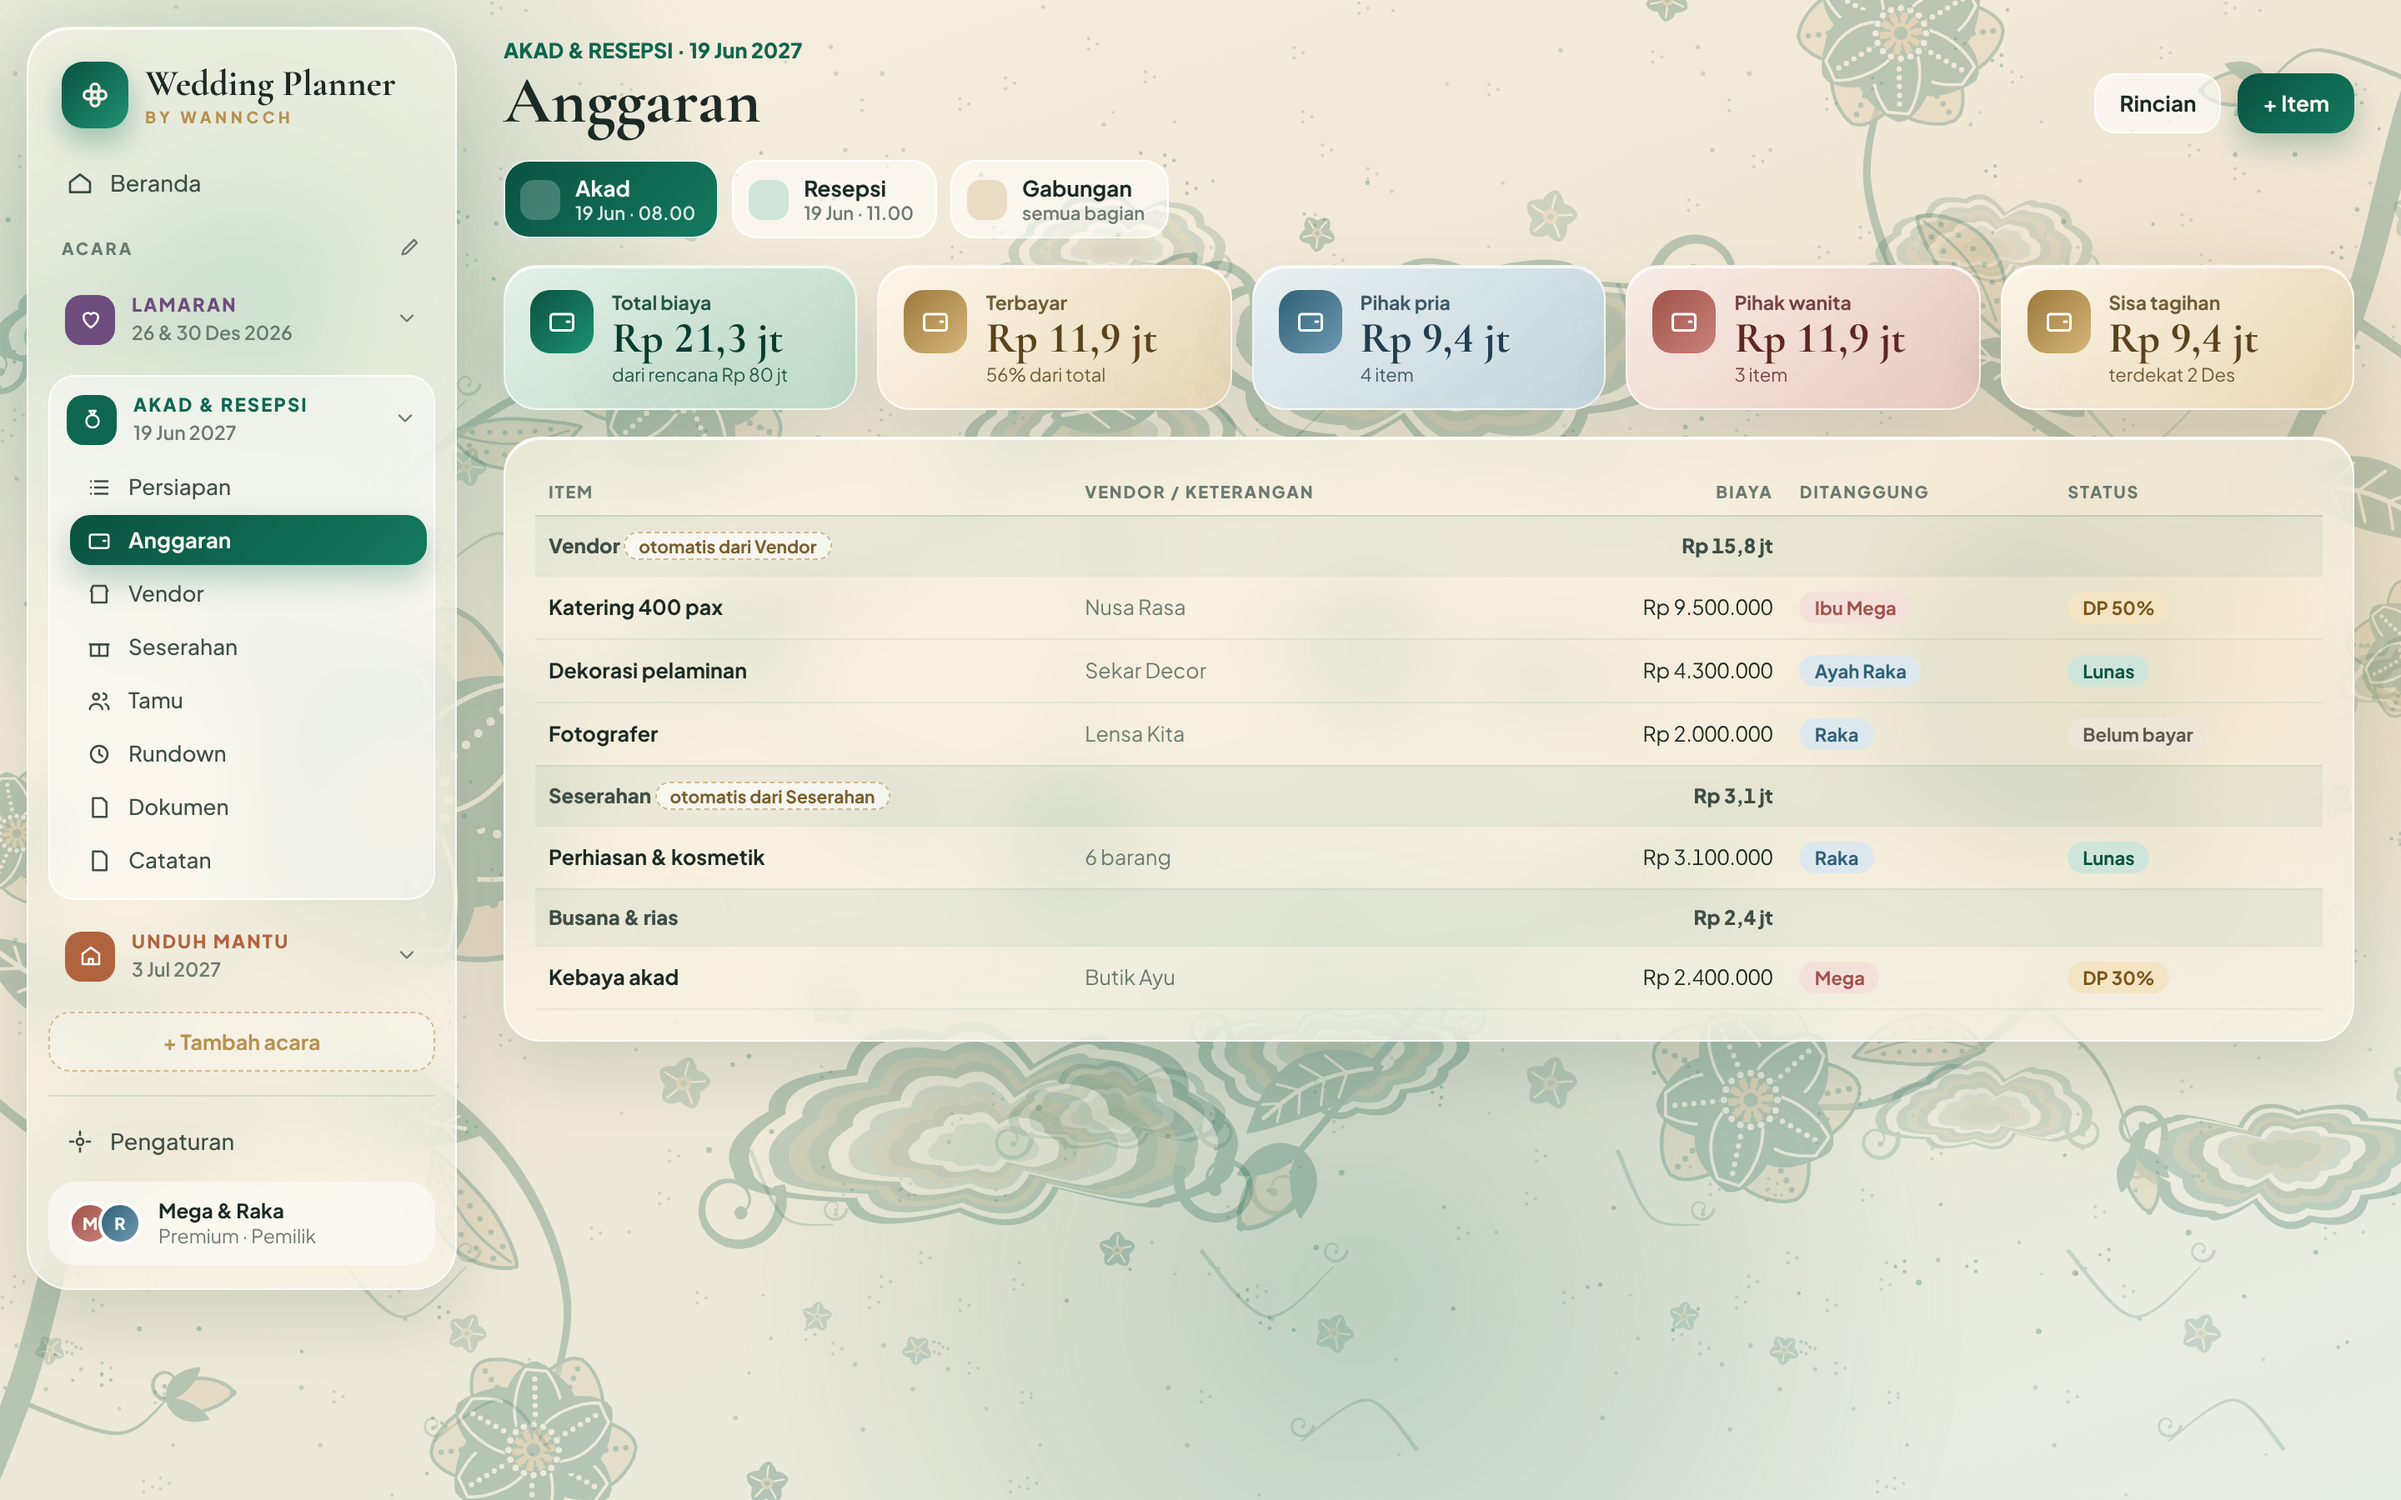
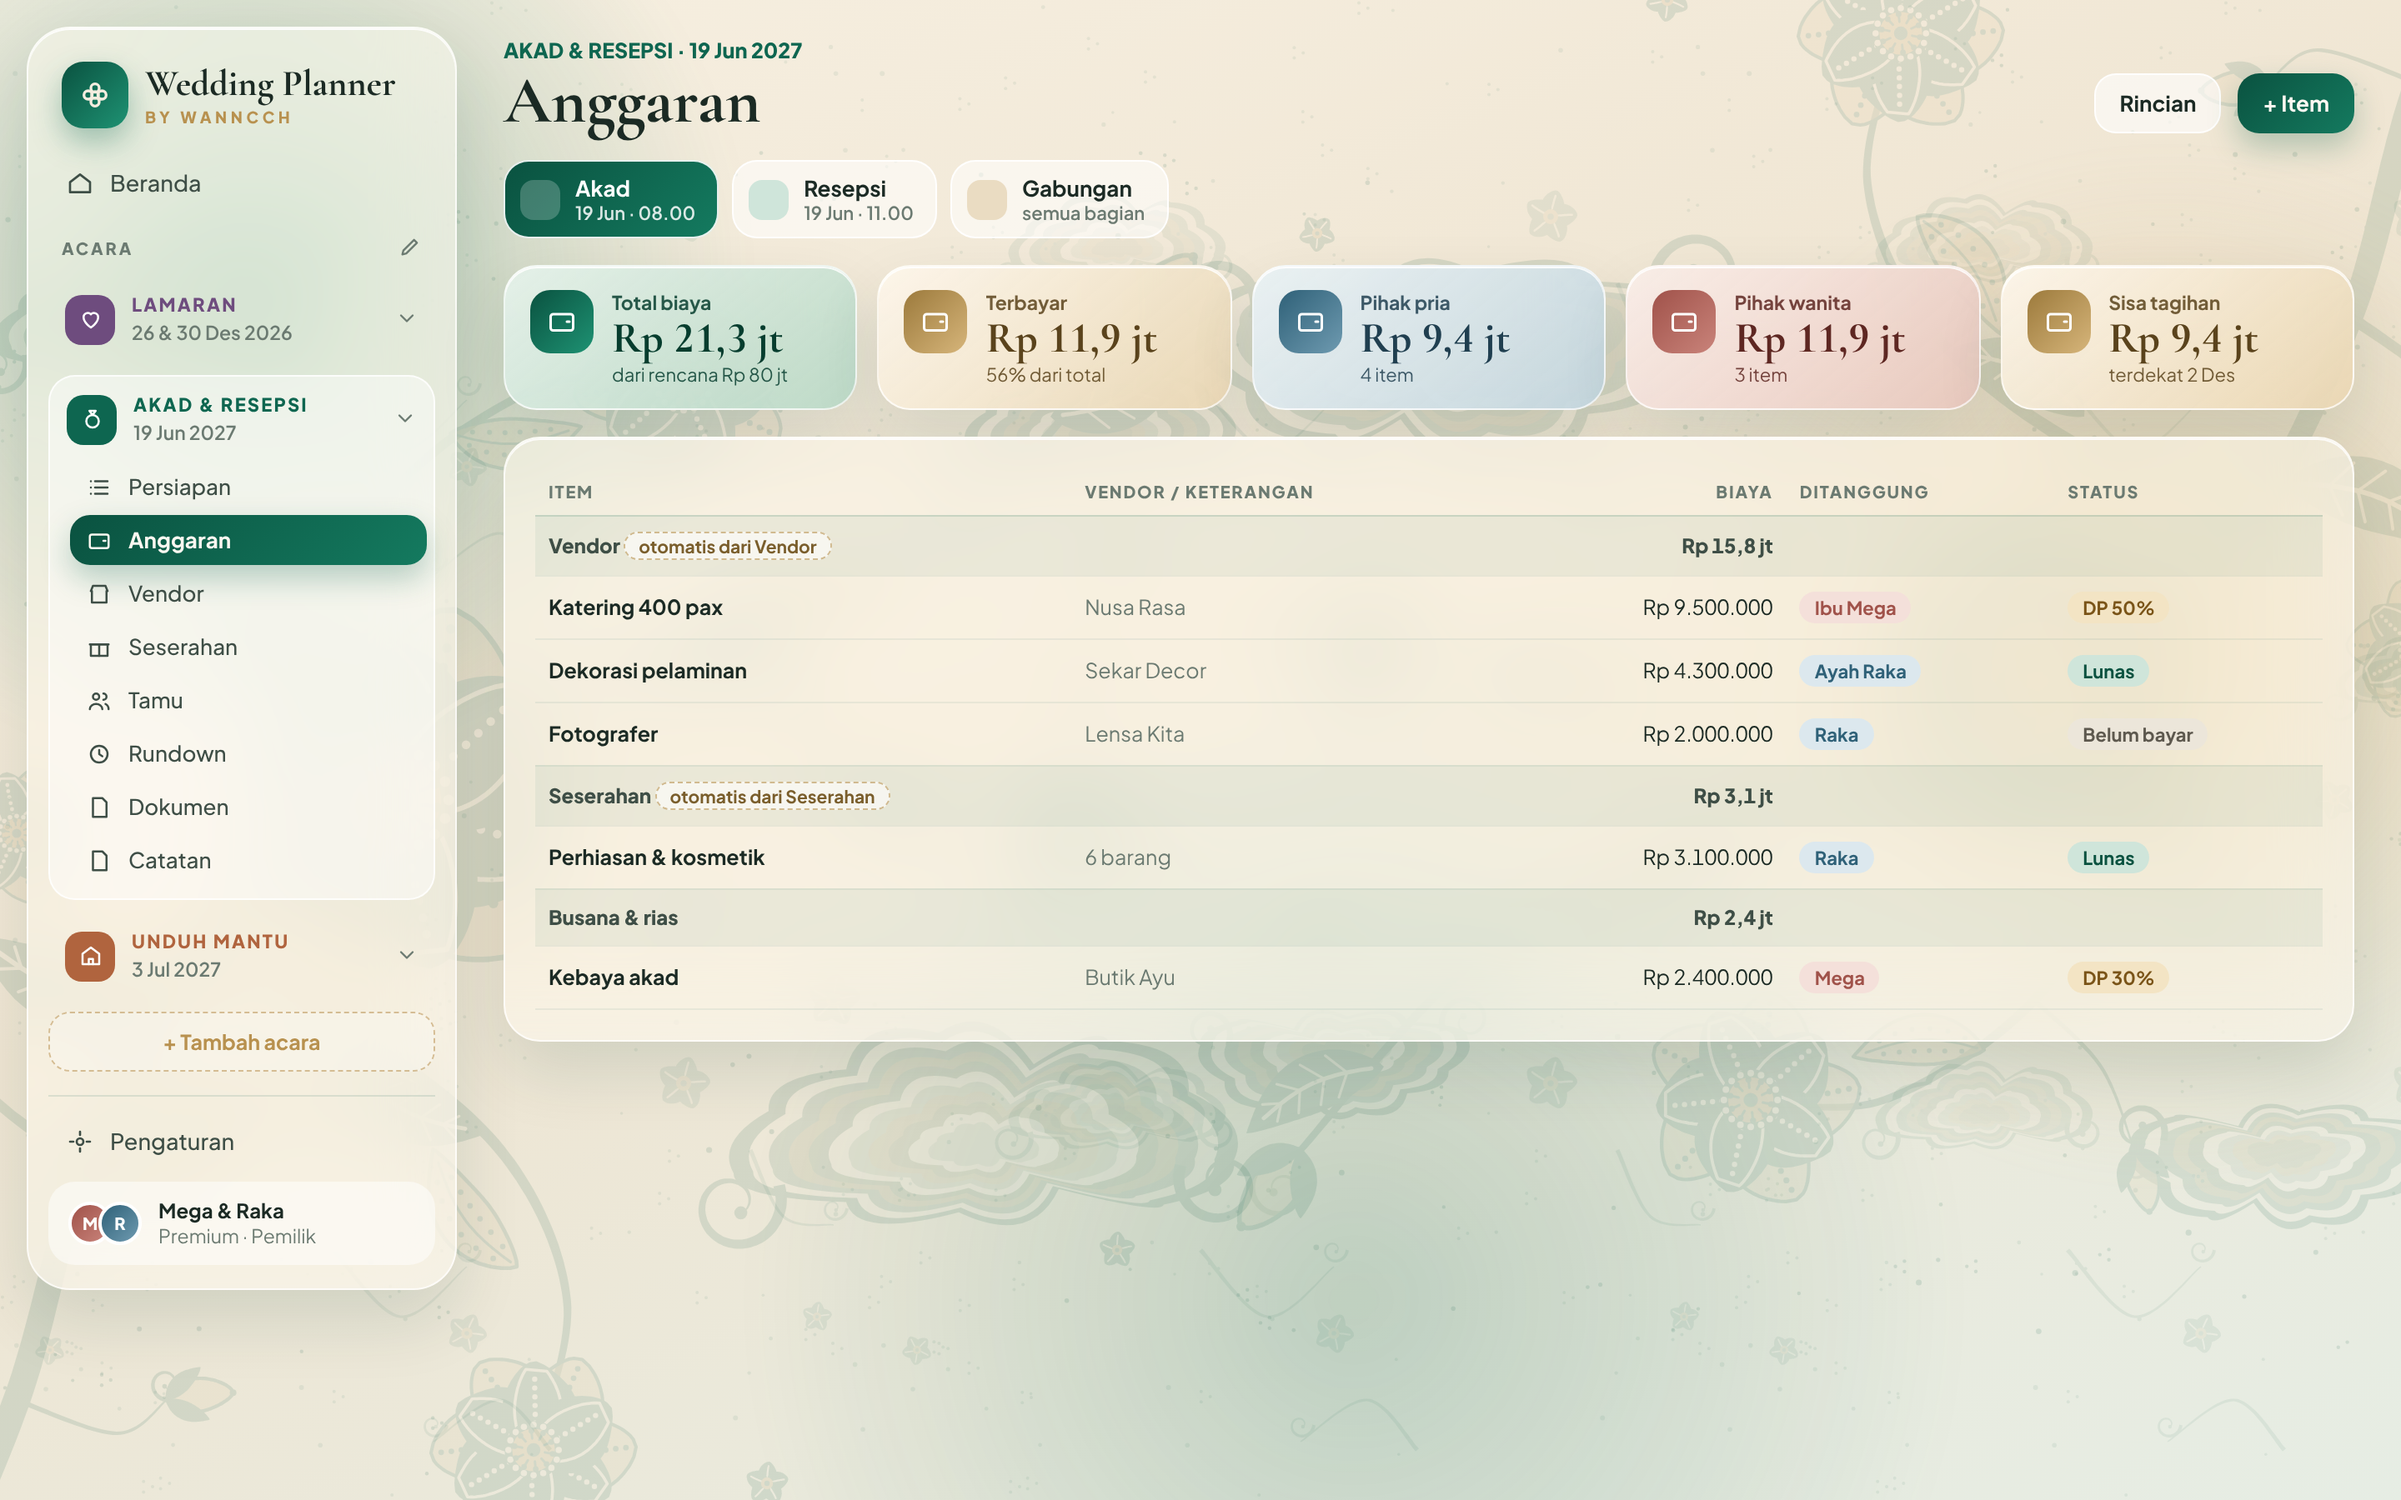
Mockup v5 Emerald: motif batik lebih samar
Claude-Session: https://claude.ai/code/session_01FXbHuBUEcwiKtJ8siQhxjS

diff --git a/design-mockup/v5-emerald/emerald.css b/design-mockup/v5-emerald/emerald.css
@@ -14,10 +14,10 @@ body{margin:0;font-family:'Plus Jakarta Sans',system-ui,sans-serif;color:var(--i
 .app{position:relative;overflow:hidden;display:flex;gap:0;min-height:100%;
   background:linear-gradient(160deg,#F7F0E2 0%,#EFE5D2 45%,#E6EDE4 100%)}
 /* lapisan latar: motif batik → lapisan warna transparan */
-.app::before{content:"";position:absolute;inset:0;pointer-events:none;opacity:.16;
+.app::before{content:"";position:absolute;inset:0;pointer-events:none;opacity:.07;
   background-image:url("batik.svg");background-size:520px 520px}
 /* ornamen floral besar di sudut (di bawah lapisan warna) */
-.orn{position:absolute;pointer-events:none;width:900px;height:900px;background:url("batik-ornamen.svg") no-repeat;background-size:contain;opacity:.24}
+.orn{position:absolute;pointer-events:none;width:900px;height:900px;background:url("batik-ornamen.svg") no-repeat;background-size:contain;opacity:.11}
 .orn.bl{left:-60px;bottom:-80px}
 .orn.tr{right:-80px;top:-90px;transform:scale(-1,-1)}
 .ph .orn{width:520px;height:520px}.ph .orn.bl{left:-60px;bottom:40px}.ph .orn.tr{right:-90px;top:-60px}
@@ -76,7 +76,7 @@ body{margin:0;font-family:'Plus Jakarta Sans',system-ui,sans-serif;color:var(--i
 /* hitung mundur */
 .hero{position:relative;overflow:hidden;border-radius:24px;color:var(--be0);padding:18px 22px;display:grid;grid-template-columns:minmax(0,1fr) auto minmax(250px,290px);gap:20px;align-items:center;
   background:linear-gradient(130deg,var(--em9) 0%,var(--em7) 55%,#2F7D5E 100%);box-shadow:0 20px 44px rgba(6,61,46,.35),inset 0 1px 0 rgba(255,255,255,.18)}
-.hero::before{content:"";position:absolute;right:-40px;top:-60px;width:620px;height:620px;transform:scale(-1,1);background:url("batik-ornamen-light.svg") no-repeat;background-size:contain;opacity:.16;pointer-events:none}
+.hero::before{content:"";position:absolute;right:-40px;top:-60px;width:620px;height:620px;transform:scale(-1,1);background:url("batik-ornamen-light.svg") no-repeat;background-size:contain;opacity:.07;pointer-events:none}
 .hero::after{content:"";position:absolute;right:-90px;top:-120px;width:340px;height:340px;border-radius:50%;background:radial-gradient(circle,rgba(214,181,122,.35),transparent 68%)}
 .hero>*{position:relative;z-index:1}
 .nx{display:inline-flex;align-items:center;gap:7px;border-radius:999px;padding:3px 10px 3px 3px;font-size:10.5px;font-weight:800;letter-spacing:.06em;background:rgba(255,255,255,.12);border:1px solid rgba(255,255,255,.28)}
@@ -104,8 +104,8 @@ body{margin:0;font-family:'Plus Jakarta Sans',system-ui,sans-serif;color:var(--i
 .sbox{border-radius:15px;padding:10px 13px;background:rgba(255,255,255,.55);border:1px solid rgba(255,255,255,.85)}
 .acards{display:grid;grid-template-columns:repeat(3,minmax(0,1fr));gap:14px;align-items:start}
 .acard{border-radius:22px;overflow:hidden}
-.ah{padding:15px 17px;display:flex;flex-direction:column;gap:5px;position:relative}
-.ah::before{content:"";position:absolute;right:-30px;top:-40px;width:260px;height:260px;transform:scale(-1,1);background:url("batik-ornamen.svg") no-repeat;background-size:contain;opacity:.16}
+.ah{padding:15px 17px;display:flex;flex-direction:column;gap:5px;position:relative;overflow:hidden}
+.ah::before{content:"";position:absolute;right:-30px;top:-40px;width:260px;height:260px;transform:scale(-1,1);background:url("batik-ornamen.svg") no-repeat;background-size:contain;opacity:.08}
 .ah>*{position:relative}
 .ab{padding:13px 16px 16px;display:flex;flex-direction:column;gap:9px}
 .t-lam{background:linear-gradient(140deg,rgba(236,226,243,.92),rgba(206,186,222,.82));color:#3F2A4E}
